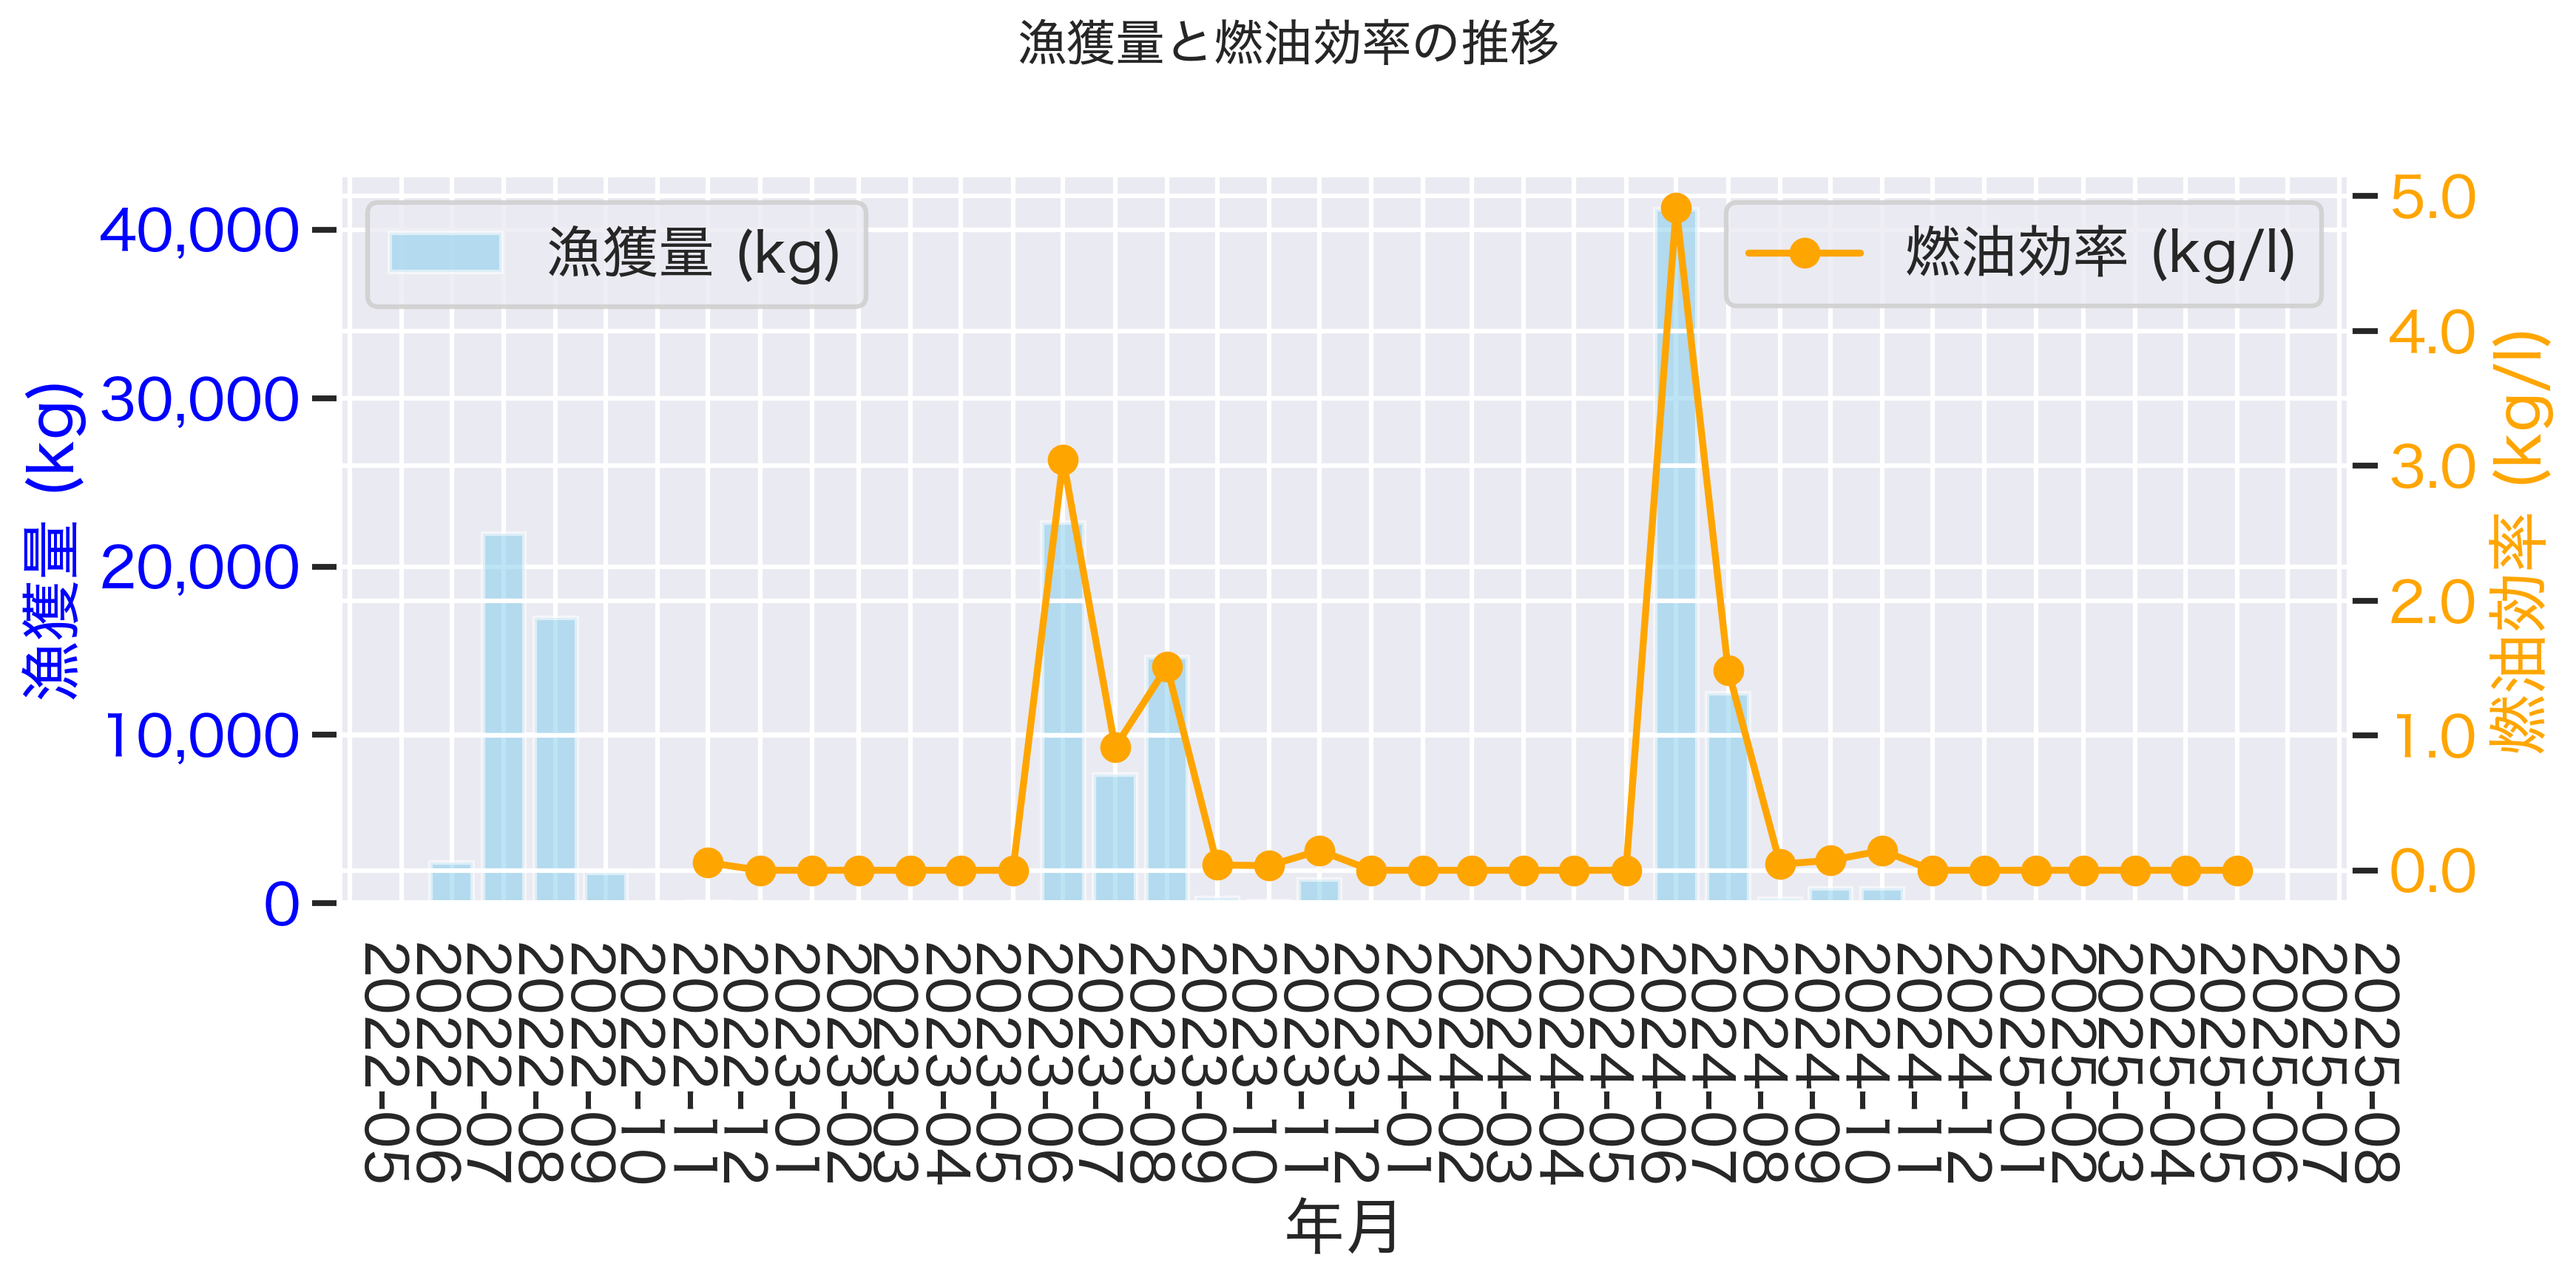
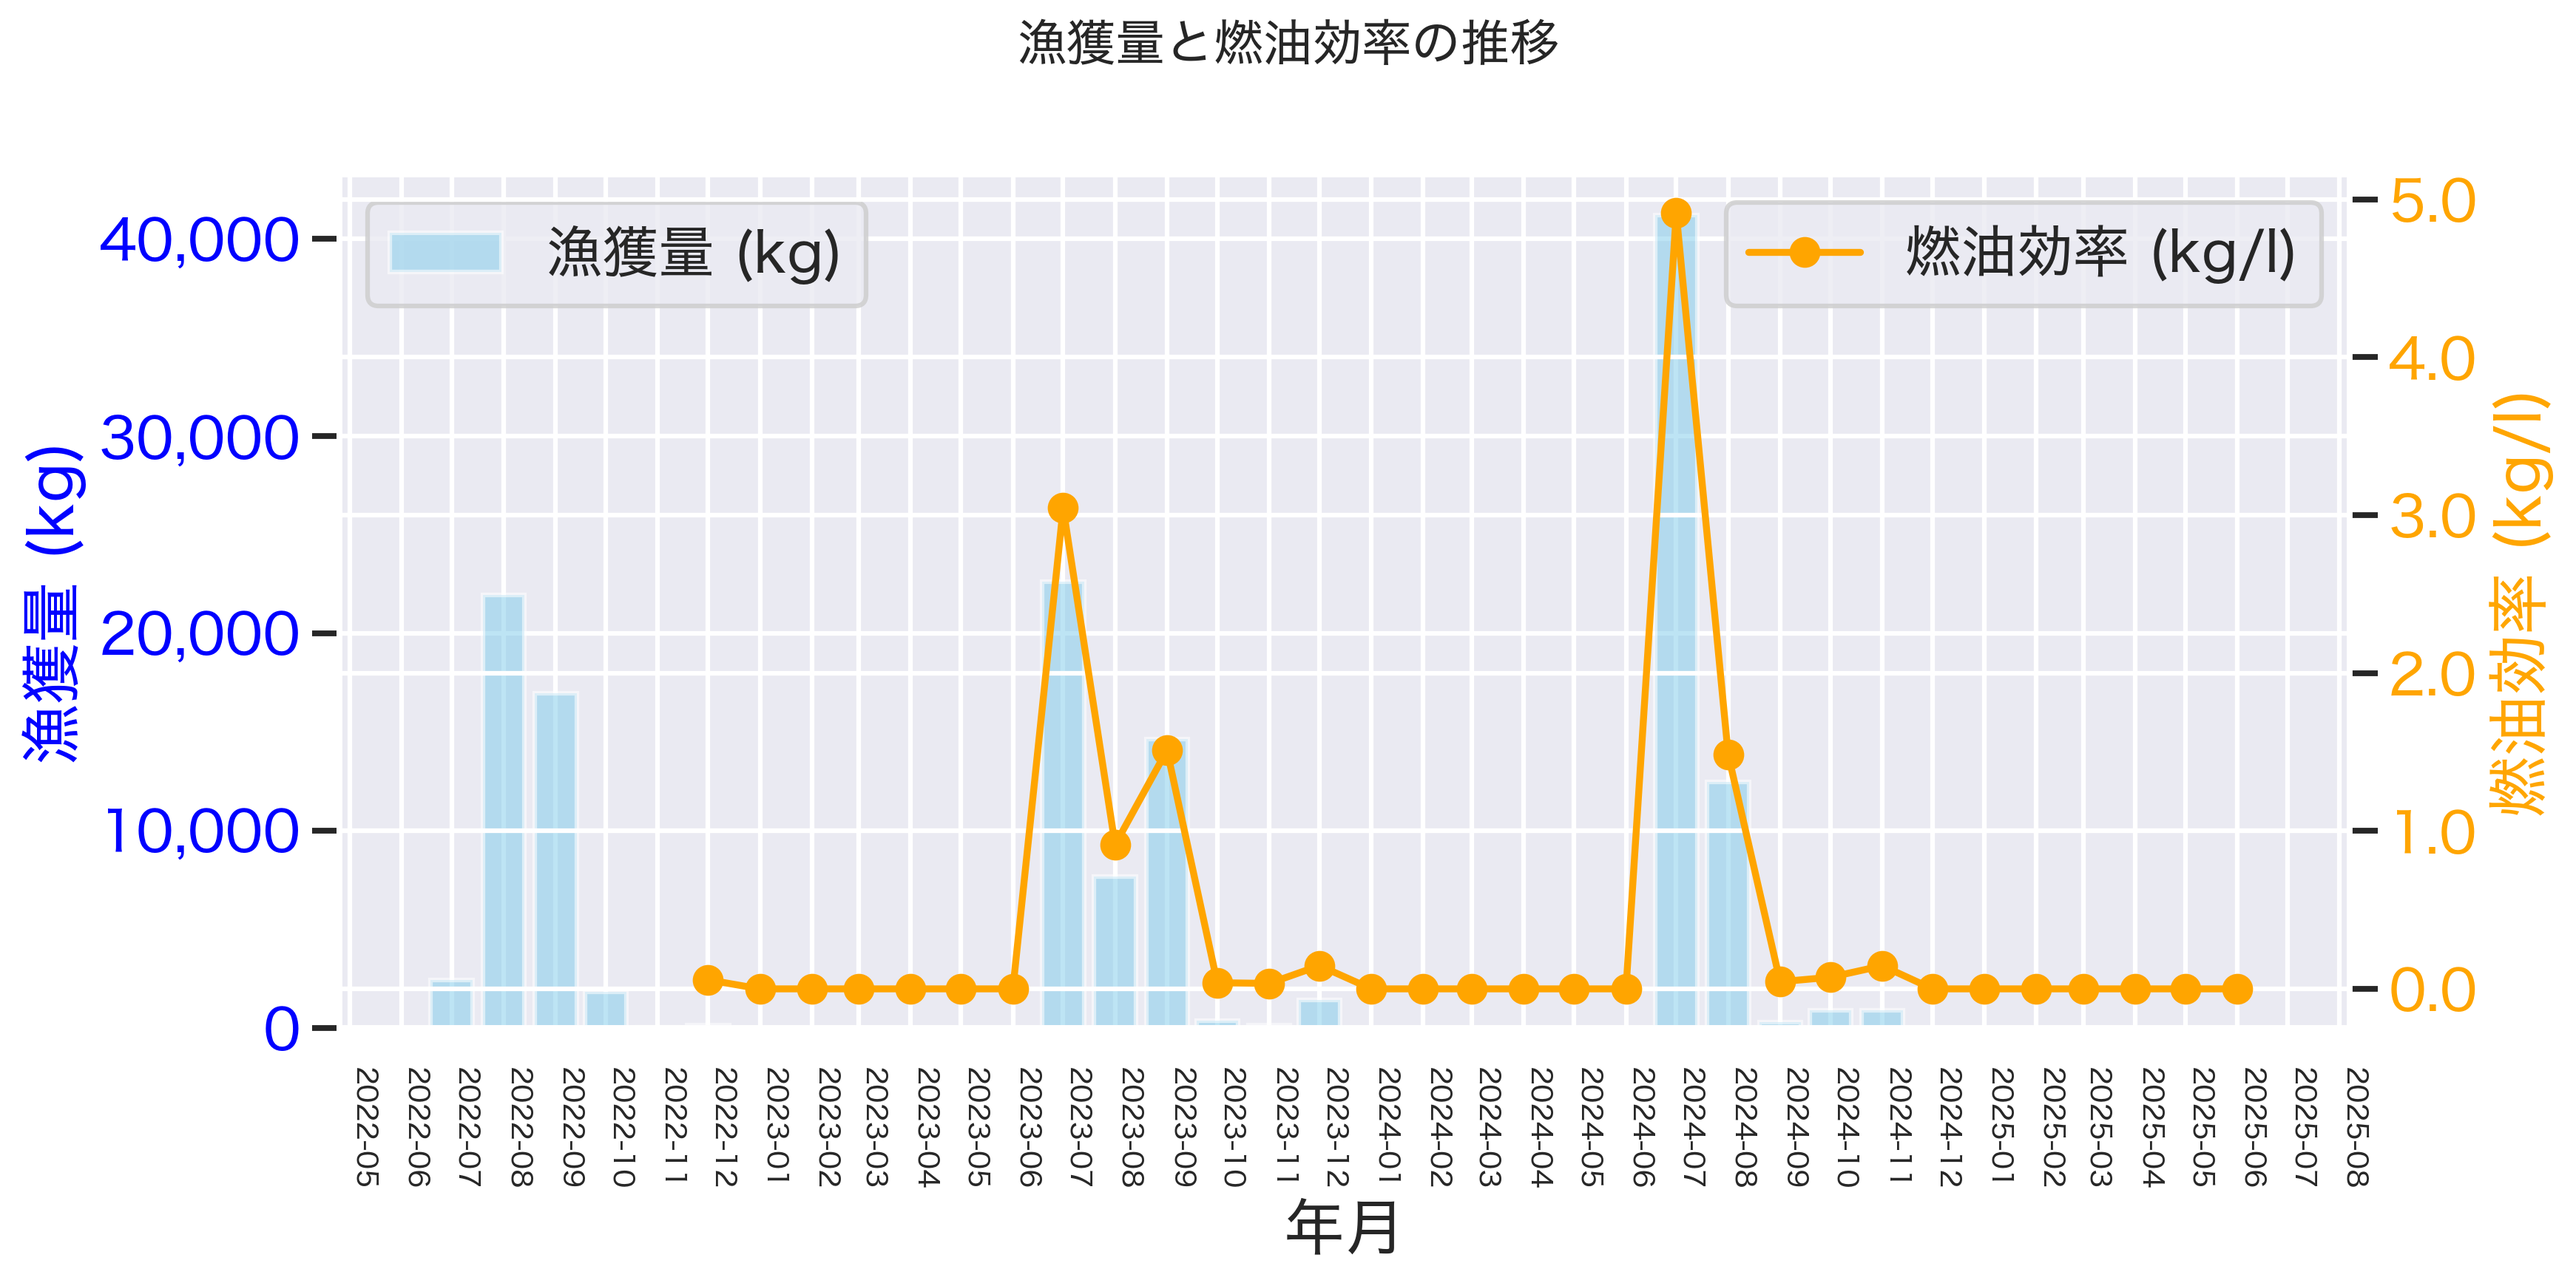
gitignoreの変更

diff --git a/analysis.py b/analysis.py
@@ -1108,63 +1108,57 @@ def generate_summary_dashboard_no_revenue(results, output_dir, year: int = None)
 
 def plot_catch_and_efficiency(catch_kg_sum, catch_per_l, years):
     """
-    漁獲量と燃油効率を複合グラフとしてプロット
+    漁獲量と燃油効率を複合グラフとしてプロット（位置・はみ出し完全対応）
     """
     fig, ax1 = plt.subplots(figsize=(12, 6))
 
-    x = years
-    try:
-        if len(x) > 0 and (isinstance(x[0], pd.Timestamp) or isinstance(x[0], _date) or (isinstance(x[0], str) and len(x[0]) in (7, 10) and x[0][4] == '-')):
-            x = pd.to_datetime(x)
-            is_monthly = True
-        else:
-            is_monthly = False
-    except Exception:
-        is_monthly = False
+    # ---- 年月処理 ----
+    x = pd.to_datetime(years)
+    is_time = pd.api.types.is_datetime64_any_dtype(x)
 
-    # 漁獲量（棒グラフ）
-    if is_monthly:
-        xdt = pd.to_datetime(x)
-        xnum = mdates.date2num(xdt)
-        ax1.bar(xnum, catch_kg_sum, width=25, color='skyblue', alpha=0.55, label='漁獲量 (kg)', align='center')
-    else:
-        ax1.bar(x, catch_kg_sum, color='skyblue', alpha=0.7, label='漁獲量 (kg)')
+    # ---- 棒グラフ（漁獲量）----
+    ax1.bar(
+        x, catch_kg_sum,
+        color='skyblue', alpha=0.6,
+        label='漁獲量 (kg)',
+        align='edge',  # 月初基準
+        width=20
+    )
 
-    # ✅ 横軸ラベルを「年月」に変更
     ax1.set_xlabel('年月')
-
-    # ✅ 縦軸の数値にカンマを入れる
-    import matplotlib.ticker as mticker
-    ax1.yaxis.set_major_formatter(mticker.FuncFormatter(lambda x, _: f"{x:,.0f}"))
-
     ax1.set_ylabel('漁獲量 (kg)', color='blue')
     ax1.tick_params(axis='y', labelcolor='blue')
+    ax1.tick_params(axis='x')
+    ax1.yaxis.set_major_formatter(mticker.FuncFormatter(lambda x, _: f"{x:,.0f}"))
 
-    if is_monthly:
-        ax1.xaxis.set_major_locator(mdates.MonthLocator(interval=1))
+    # ---- 横軸（月単位フォーマット）----
+    if is_time:
+        locator = mdates.MonthLocator(interval=1)
+        ax1.xaxis.set_major_locator(locator)
         ax1.xaxis.set_major_formatter(mdates.DateFormatter('%Y-%m'))
-        plt.setp(ax1.get_xticklabels(), rotation=270, ha='left')
 
-    # 燃油効率（折れ線）
+        # ✅ はみ出し防止：右端に余白を追加
+        delta = pd.Timedelta(days=30)
+        ax1.set_xlim(x.min(), x.max() + delta)
+
+    plt.setp(ax1.get_xticklabels(), rotation=45, ha='right')
+    plt.subplots_adjust(bottom=0.22)
+
+    # ---- 折れ線（燃油効率）----
     ax2 = ax1.twinx()
-    if is_monthly:
-        ax2.plot(pd.to_datetime(x), catch_per_l, color='orange', marker='o', label='燃油効率 (kg/l)')
-    else:
-        ax2.plot(x, catch_per_l, color='orange', marker='o', label='燃油効率 (kg/l)')
-
+    ax2.plot(x, catch_per_l, color='orange', marker='o', label='燃油効率 (kg/l)')
     ax2.set_ylabel('燃油効率 (kg/l)', color='orange')
     ax2.tick_params(axis='y', labelcolor='orange')
-
-    # ✅ 燃油効率軸にもカンマを適用（小数は1桁まで）
     ax2.yaxis.set_major_formatter(mticker.FuncFormatter(lambda x, _: f"{x:,.1f}"))
 
+    # ---- タイトル・凡例・保存 ----
     fig.suptitle('漁獲量と燃油効率の推移', fontsize=16)
     ax1.legend(loc='upper left')
     ax2.legend(loc='upper right')
 
     out_path = Path('analysis_results/graphs/catch_and_efficiency.png')
     out_path.parent.mkdir(parents=True, exist_ok=True)
-    plt.tight_layout()
+    plt.tight_layout(rect=[0, 0, 1, 0.96])
     plt.savefig(out_path, dpi=300, bbox_inches='tight')
     plt.close(fig)
 
